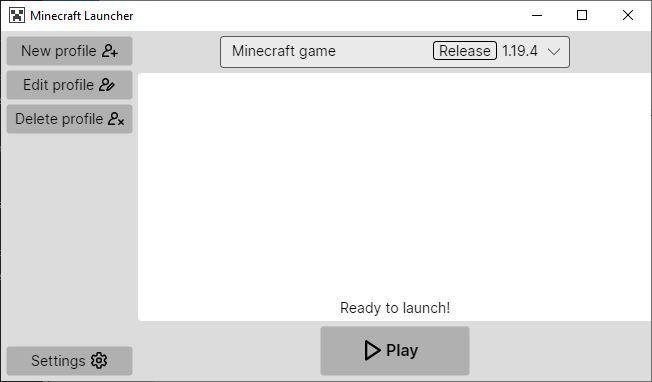
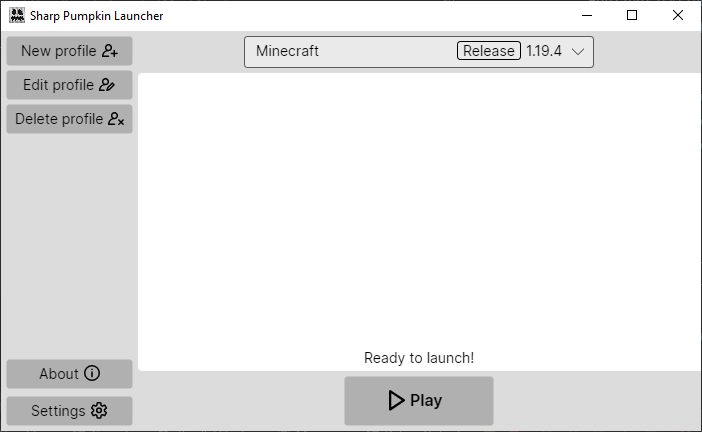
update screenshots update README.md update info

Changed region(s): [[0.0, 0.0, 1.0, 1.0], [0.2454, 0.9791, 0.3988, 1.0], [0.4294, 0.9791, 0.5215, 1.0]]

diff --git a/README.md b/README.md
@@ -1,26 +1,26 @@
-Minecraft Launcher
+Sharp Pumpkin Launcher
 =====================
 
 This is a free and open source minecraft launcher.
 
 Its can automatically install and run game with Forge modloader.
 
-Support Forge authors - [Patreon](www.patreon.com/MinecraftForge)
+Support Forge authors - [Patreon](https://www.patreon.com/MinecraftForge)
 
 
 Download
 ------------
 
-[Link](https://github.com/AGhostik/MCLauncher/releases/)
+[Link](https://github.com/AGhostik/SharpPumpkinLauncher/releases/)
 
 
 Screenshot
 ------------
 
-![main screenshot](https://raw.githubusercontent.com/AGhostik/MCLauncher/master/Screenshots/MainView.png)
+![main screenshot](https://raw.githubusercontent.com/AGhostik/SharpPumpkinLauncher/master/Screenshots/MainView.png)
 
 
-![settings screenshot](https://raw.githubusercontent.com/AGhostik/MCLauncher/master/Screenshots/SettingsView.png)
+![settings screenshot](https://raw.githubusercontent.com/AGhostik/SharpPumpkinLauncher/master/Screenshots/SettingsView.png)
 
 Used resources
 ------------
